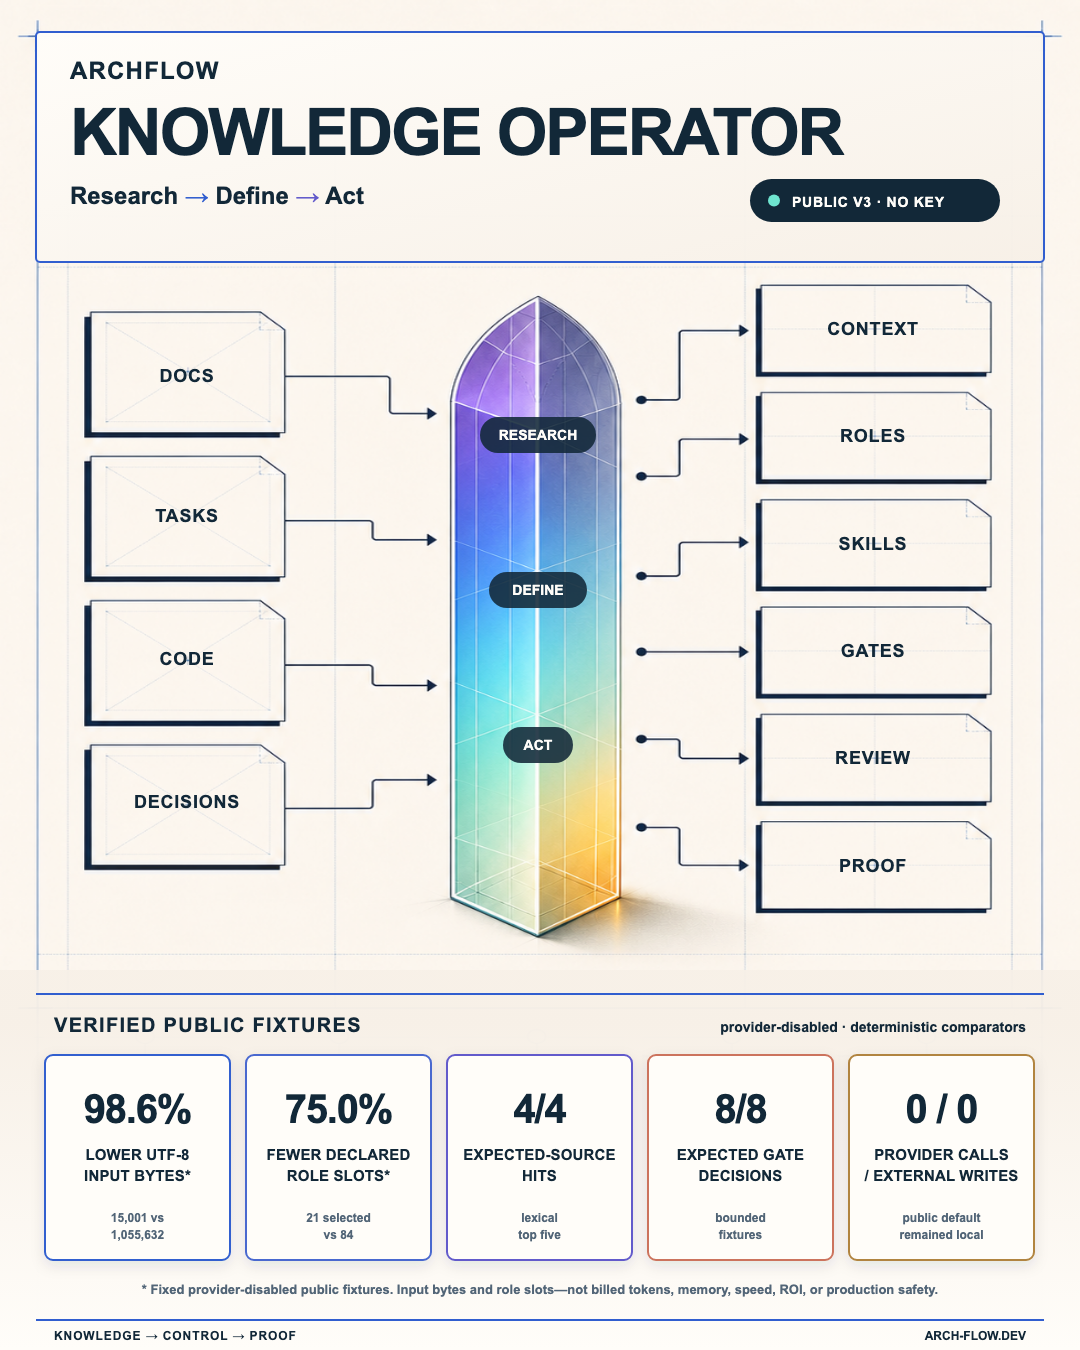
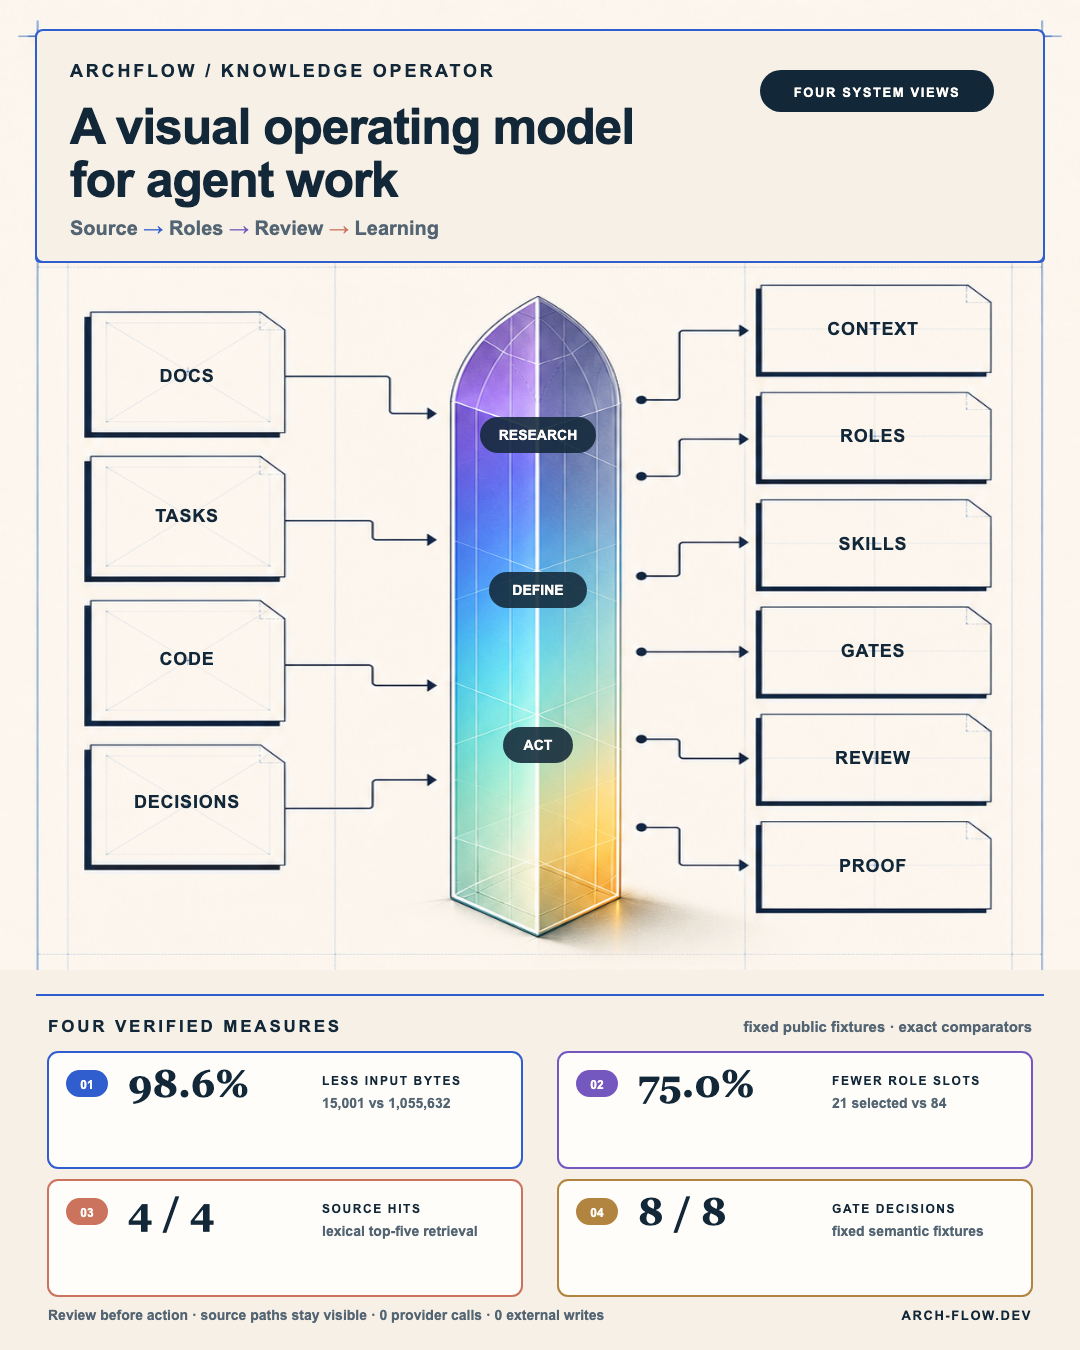
refine: restore four-schema visual presentation

Changed region(s): [[0.0306, 0.7467, 0.9778, 0.9956], [0.0611, 0.0311, 0.9472, 0.1867]]

diff --git a/project/assets/linkedin/knowledge-operator-v3/asset-notes.md b/project/assets/linkedin/knowledge-operator-v3/asset-notes.md
@@ -1,37 +1,44 @@
 # ArchFlow Knowledge Operator — LinkedIn Asset
 
-Status: release candidate
+Status: final release asset
 
[1 lines of base64/hex data omitted]
 
[2 lines of base64/hex data omitted]
 
-The final publication card combines an AI-generated Evidence Prism Grid art layer with a deterministic SVG typography and metrics layer. This keeps the distinctive spectral architectural form while ensuring every public number, qualifier, label, and limitation is exact.
+The final 1080 × 1350 RGB poster keeps the ivory-and-ink ArchFlow grid and spectral prism, then gives the evidence a cleaner editorial hierarchy: a short operating-model headline, a four-view visual promise, and four numbered measures with consistent color-coded markers. The poster intentionally avoids internal release labels and implementation jargon.
 
 ## Files
 
-- `archflow-knowledge-operator-metrics.png` — 1080 × 1350 LinkedIn-ready export.
+- `archflow-knowledge-operator-metrics.png` — LinkedIn-ready 1080 × 1350 RGB export.
 - `asset-notes.md` — evidence, provenance, alt text, and use boundary.
-- `linkedin-caption.md` — post-ready English caption.
+- `linkedin-caption.md` — post-ready English caption with website, dashboard, and repository links.
 
-The generated art layer and deterministic SVG were build intermediates. The clean public snapshot ships only the final raster and its publication documents; it does not need either intermediate to display or verify the asset.
+The public repository also carries the four matching architecture visual pairs under `project/assets/architecture/`:
+
+- `knowledge-crew-tower.png` / `.svg`
+- `context-input-flow.png` / `.svg`
+- `output-receipt-flow.png` / `.svg`
+- `onboarding-teamwork-flow.png` / `.svg`
+
+These are the visual source set for the Architecture and Knowledge views in the dashboard.
 
 ## Verified Visible Claims
 
 - 98.6% lower UTF-8 input bytes: 15,001 versus 1,055,632.
-- 75.0% fewer declared role slots: 21 versus 84.
+- 75.0% fewer selected role slots: 21 versus 84.
 - 4/4 expected-source hits in lexical top-five retrieval.
 - 8/8 expected semantic gate decisions.
-- Zero provider calls and zero external writes.
+- Zero provider calls and zero external writes in the checked fixtures.
 
-The results come from fixed, provider-disabled public fixtures. They are not billed-token, durable-memory, latency, speed, labor, ROI, answer-quality, production-safety, or real-world reliability claims.
+The results come from fixed public fixtures and exact comparators. They are not billed-token, durable-memory, latency, speed, labor, ROI, answer-quality, production-safety, or real-world reliability claims.
 
 ## Alt Text
 
-Vertical ArchFlow Knowledge Operator poster on a warm ivory technical grid. Four blocks labeled Docs, Tasks, Code, and Decisions enter a tall violet, blue, cyan, mint, and gold architectural prism through Research, Define, and Act. Six aligned blocks leave the prism as Context, Roles, Skills, Gates, Review, and Proof. Five benchmark cards report 98.6% lower UTF-8 input bytes, 75.0% fewer declared role slots, four of four expected-source hits, eight of eight expected gate decisions, and zero provider calls or external writes. A footnote says these are fixed provider-disabled public fixtures, not billed tokens, memory, speed, ROI, or production safety.
+Vertical ArchFlow Knowledge Operator poster on a warm ivory technical grid. Four labeled inputs—Docs, Tasks, Code, and Decisions—flow into a violet, blue, cyan, mint, and gold architectural prism through Research, Define, and Act. Six outputs—Context, Roles, Skills, Gates, Review, and Proof—leave the prism. The lower panel presents four numbered measures: 98.6% less input bytes, 75.0% fewer selected role slots, four of four source hits, and eight of eight gate decisions. The footer emphasizes review before action and visible source paths.
 
 ## Generation Record
 
-The built-in image generation tool created the art layer from the prior ArchFlow Evidence Prism Grid as art-direction reference. The prompt required a warm ivory editorial grid, modular block flow, a narrow iridescent architectural prism, clear title and metrics regions, and no generated text. Exact copy was then added in vector form. No reference logo, artwork, or layout asset was copied.
+The central prism and block-flow art preserve the ArchFlow Evidence Prism Grid direction. The updated header, four numbered evidence cards, and footer were typeset deterministically in SVG and rasterized to the final RGB PNG so that every label and number remains exact. The export contains only the final raster needed for publication.
 
-Use the PNG as native LinkedIn media and paste the alt text in the composer. Verify the mobile crop before publishing.
+Use the PNG as native LinkedIn media and paste the caption and alt text in the composer. Verify the mobile crop before publishing.

diff --git a/project/assets/linkedin/knowledge-operator-v3/linkedin-caption.md b/project/assets/linkedin/knowledge-operator-v3/linkedin-caption.md
@@ -1,27 +1,40 @@
 # LinkedIn Caption
 
-Most agent demos start with the model. I started with the handoff.
+Most agent systems do not break at the model call. They break at the handoff.
 
-The hard part is not getting an agent to produce something. It is knowing which sources it used, what it was allowed to do, where the state changed, who must review the result, and what can safely happen next.
+ArchFlow Knowledge Operator makes that handoff visible. It gives a person or team one practical path from source material to a safe next action:
 
-That is the problem ArchFlow Knowledge Operator is built to solve.
+**Research → Define → Act → Review → Remember**
 
-It is a public, local-first control room for turning scattered documents, tasks, code, and decisions into bounded agent work. A request moves through one visible path: **Research → Define → Act**. Research admits an exact source boundary and keeps facts, assumptions, contradictions, and gaps distinct. Define selects the smallest responsible role pack, the required skills, acceptance checks, reviewer, attempt limits, and stop conditions. Act produces a reviewable artifact, evidence, an action receipt, and a next-safe-action handoff.
+The repository includes four visual operating schemas:
 
-The public base includes 21 functional role contracts, four reusable role packs, ten portable skill packages, typed state transitions, deterministic exact-manifest retrieval, review gates, solution and action-memory contracts, a responsive dashboard, and a Communication Center. Jarvis can prepare a browser-local work packet and pass it into the dashboard without putting the packet in a URL. The core needs no model key. Authentication identifies an administrator, but provider calls, Git changes, deployment, spending, and external writeback remain separate approvals.
+**01 · Knowledge crew** — how reviewed sources, functional roles, typed state, and learning connect.
 
-I tested the release with four fixed, provider-disabled public fixtures:
+**02 · Context flow** — how bounded inputs become source-visible context without losing provenance.
 
-• **98.6% lower UTF-8 input bytes** than four deliberately naive full-manifest packets: 15,001 vs 1,055,632
-• **75.0% fewer selected role slots** than all-role fan-out: 21 vs 84
-• **4/4 expected-source hits** in lexical top-five retrieval
-• **8/8 expected semantic gate decisions**
-• **0 provider calls and 0 external writes**
+**03 · Output receipts** — how artifacts, checks, approvals, and next-safe-action handoffs are recorded.
 
-These are bounded engineering measurements—not billed-token savings, memory savings, delivery speed, labor reduction, ROI, answer quality, or a production safety rate. The fixtures, comparators, denominators, and limitations are published with the repository.
+**04 · Individual and team onboarding** — how a small mission grows into reusable operating knowledge.
 
-Dashboard: https://www.arch-flow.dev/project/dashboard/
-Repository: https://github.com/mcharniuk1-spec/archflow_b1_knowledge
+The dashboard turns those ideas into a usable communication center for everyday work. It helps teams answer the questions that usually stay hidden: Which source is in scope? Who owns the output? What must be reviewed? What is allowed to happen next?
+
+Four fixed engineering fixtures make the design concrete:
+
+**01 · 98.6%** lower UTF-8 input bytes — 15,001 vs 1,055,632
+
+**02 · 75.0%** fewer selected role slots — 21 vs 84
+
+**03 · 4 / 4** expected-source hits in lexical top-five retrieval
+
+**04 · 8 / 8** expected semantic gate decisions
+
+The same checks recorded **0 provider calls** and **0 external writes**. These are bounded fixture measurements, not claims about billed-token savings, memory savings, speed, ROI, answer quality, or production reliability.
+
+Explore the website: https://www.arch-flow.dev/
+
+Open the dashboard: https://www.arch-flow.dev/project/dashboard/#architecture
+
+Read the repository: https://github.com/mcharniuk1-spec/archflow_b1_knowledge
 
 If your team already uses agents, where does trust break first: source freshness, permissions, review, or the handoff?
 
